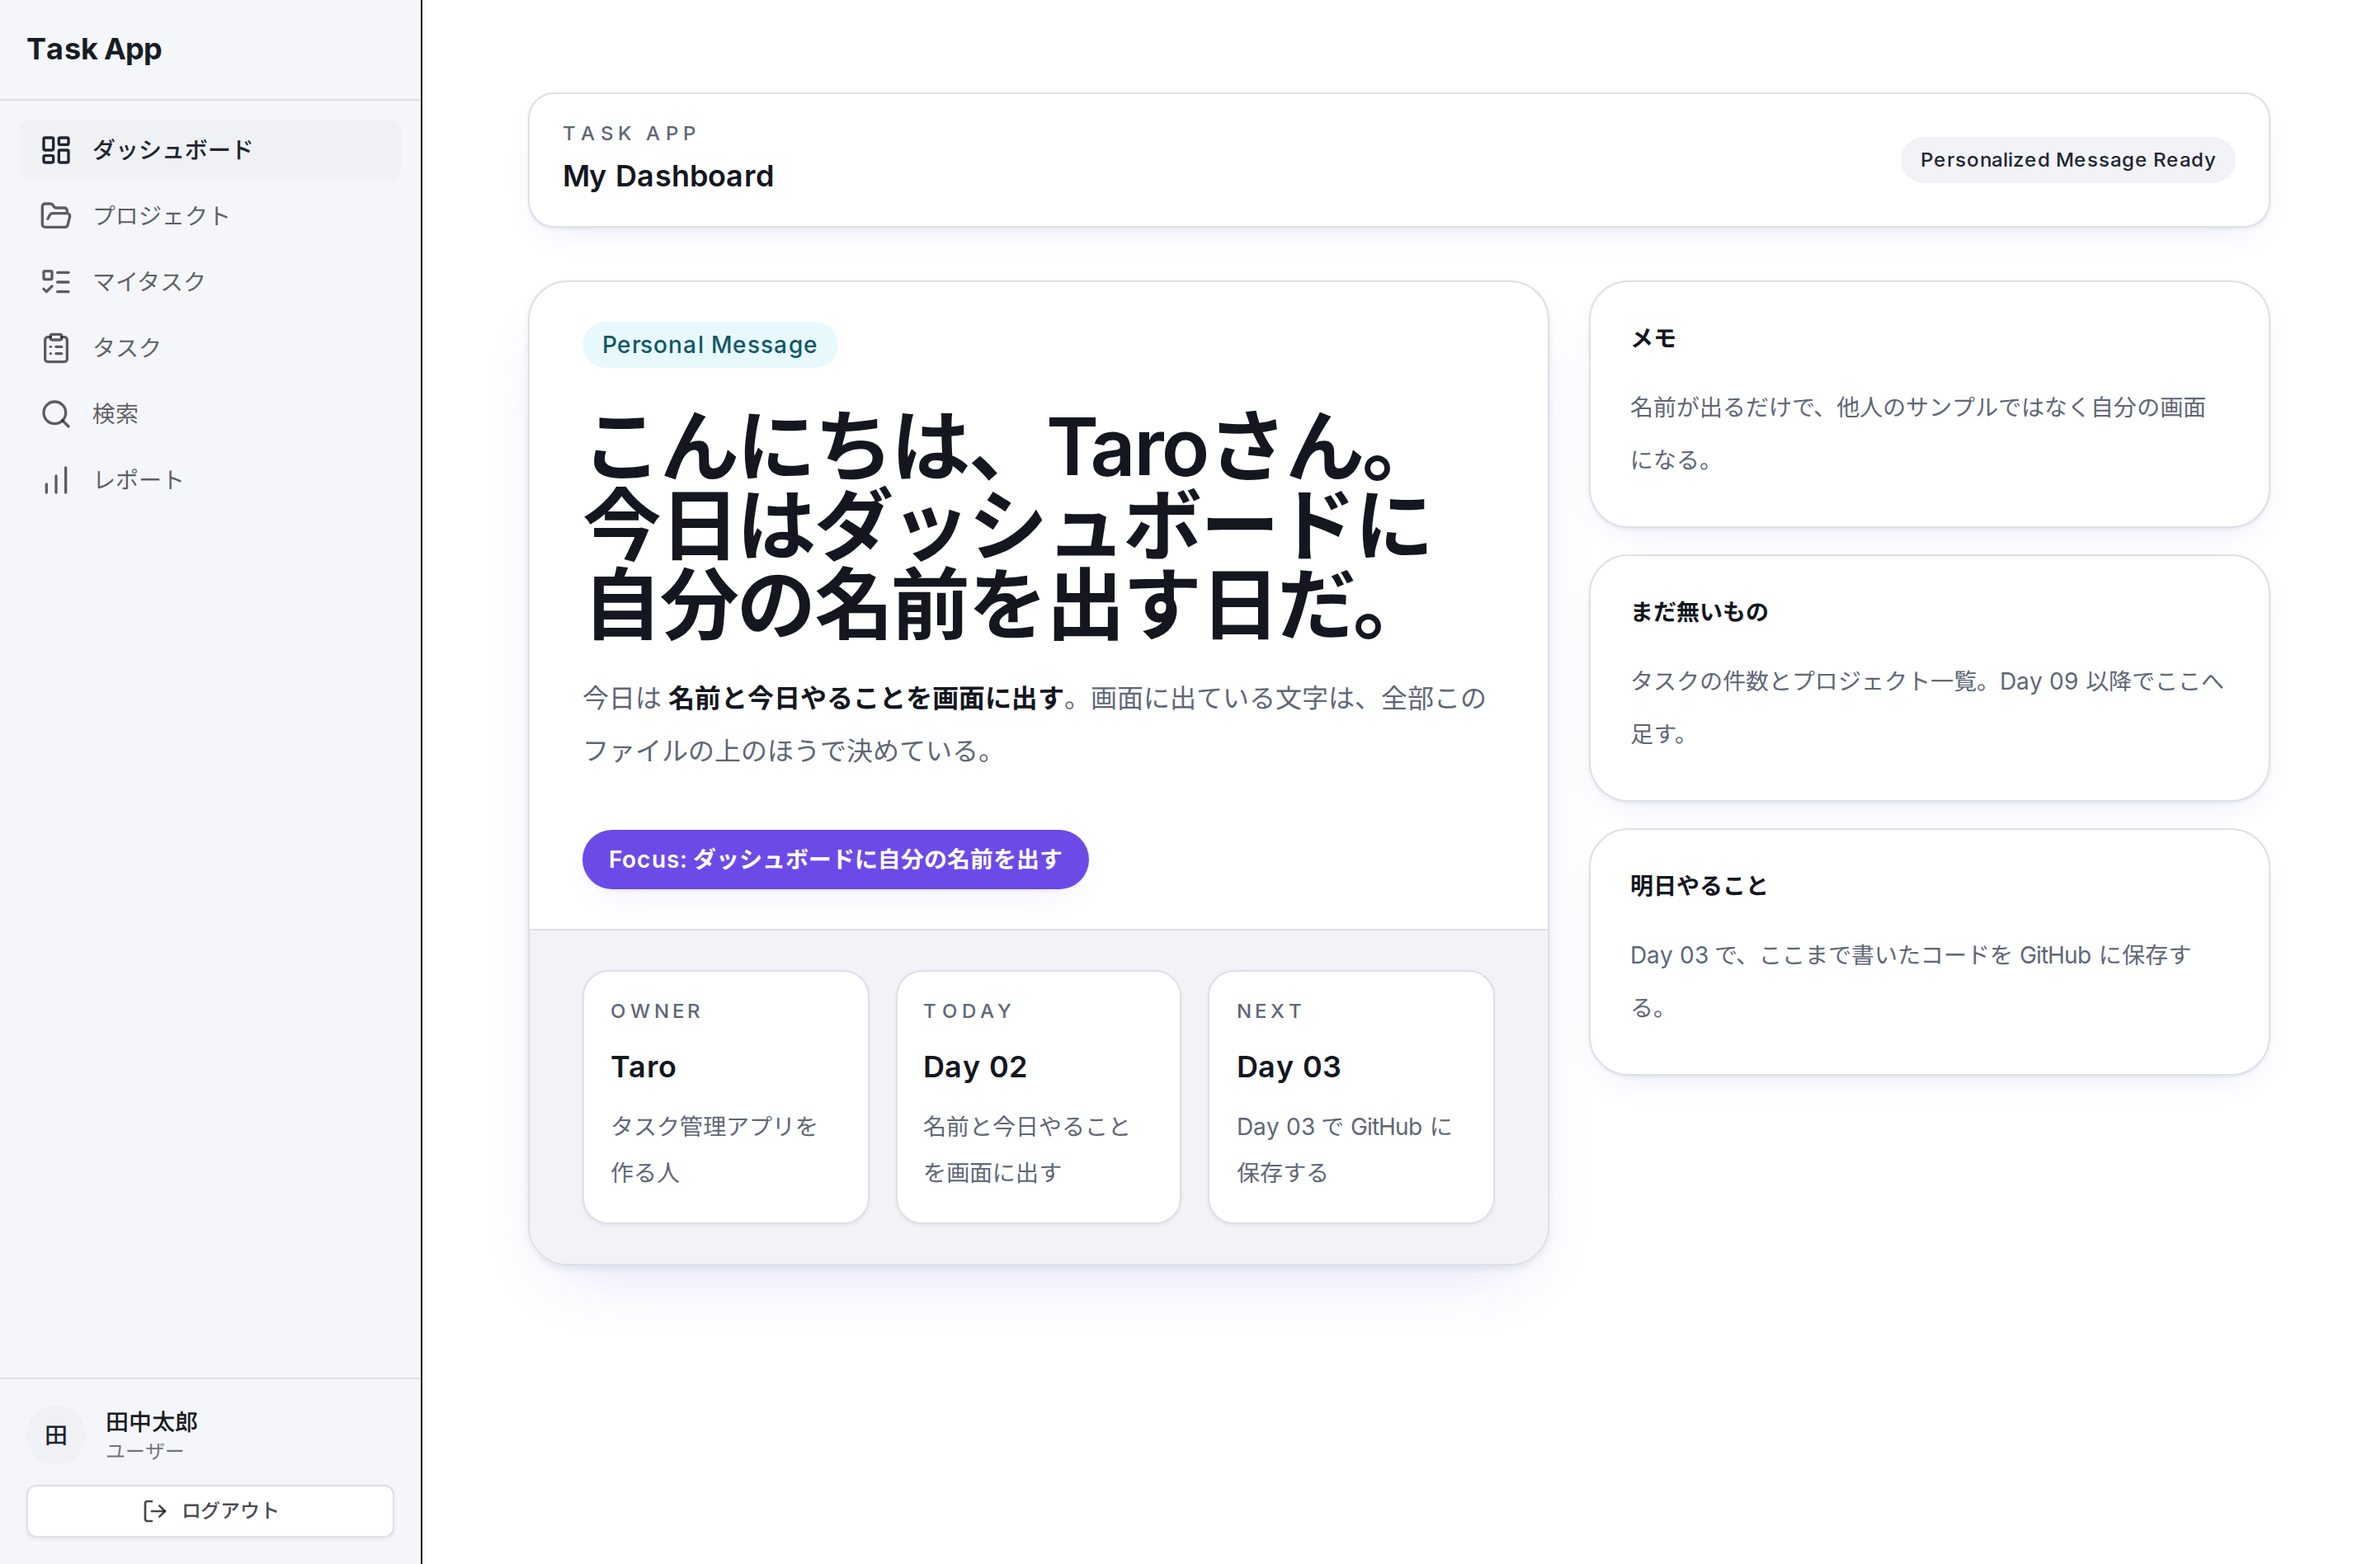
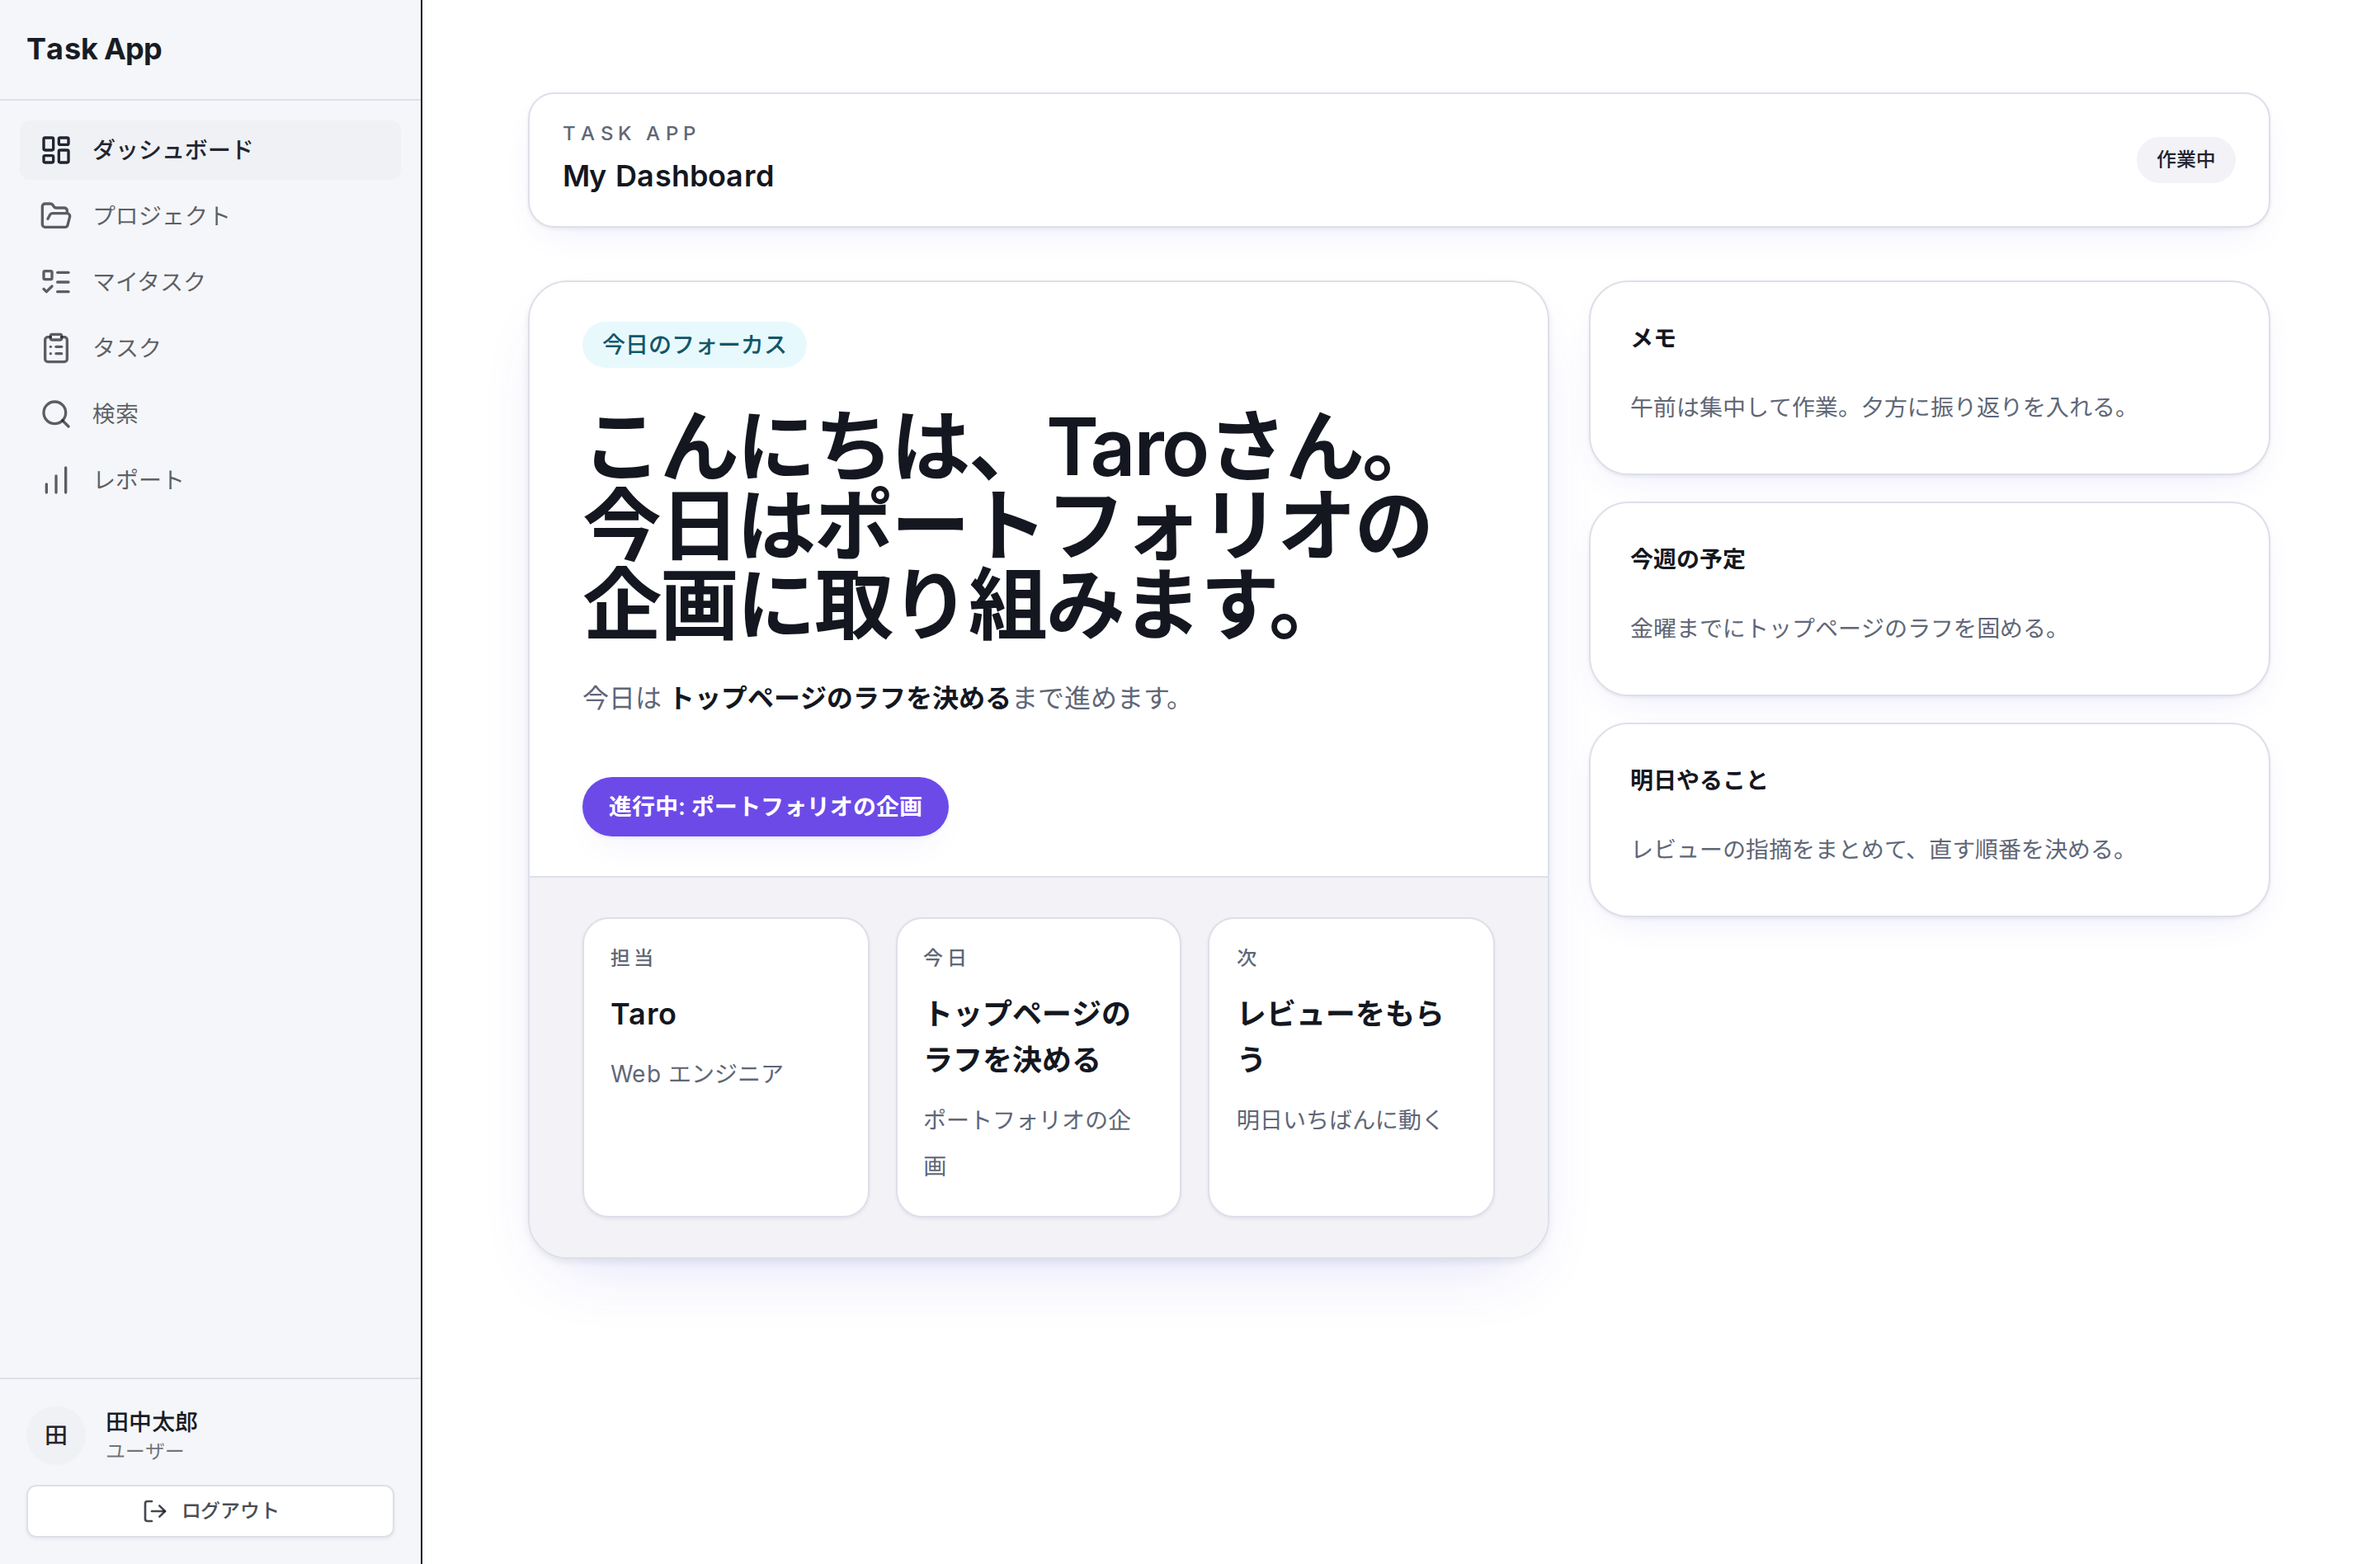
fix(material): rewrite Day 01-03 UI copy to match the finished app
The Day 01 hero and cards still said "Hello Task-App" and "はじめての画面",
which no later day ever changes, so the reader's screen kept a placeholder
title through Day 30 while the finished product says "ダッシュボード".
Day 02 carried the same wording through its prose and its greeting card.

- day01: hero, three cards, status labels and the dashboard body rewritten
  to the product's own wording
- day02: section titles, todayGoal literal and every prose reference updated
- day03: the one remaining prose reference updated
- day08/day30 screenshots reshot against the current tree

The three Day 01 and Day 02 screenshots are deliberately left out of this
commit: they still show the old wording, and the shooting database is down,
so they are reshot separately rather than committed known-stale.

diff --git a/material/30days-curriculum/day08_サイドバーを完成させよう.md b/material/30days-curriculum/day08_サイドバーを完成させよう.md
@@ -1124,10 +1124,10 @@ Day 02 のこのファイルには取り込みが1行もありませんでした
 // 完成版: 表示する値とあいさつの組み立て
 const dashboardOwner: DashboardOwner = {
   name: 'Taro',
-  role: 'タスク管理アプリを作る人',
-  todayFocus: 'ダッシュボードに自分の名前を出す',
-  todayGoal: '名前と今日やることを画面に出す',
-  nextAction: 'Day 03 で GitHub に保存する',
+  role: 'Web エンジニア',
+  todayFocus: 'ポートフォリオの企画',
+  todayGoal: 'トップページのラフを決める',
+  nextAction: 'レビューをもらう',
 };
 
 function getGreetingByHour(hour: number): string {
@@ -1153,7 +1153,7 @@ function getGreetingByHour(hour: number): string {
 function buildMainMessage(owner: DashboardOwner, hour: number): string {
   const greeting = getGreetingByHour(hour);
 
-  return `${greeting}、${owner.name}さん。今日は${owner.todayFocus}日だ。`;
+  return `${greeting}、${owner.name}さん。今日は${owner.todayFocus}に取り組みます。`;
 }
 
 export default function DashboardPage() {
@@ -1161,7 +1161,7 @@ export default function DashboardPage() {
   const mainMessage = buildMainMessage(dashboardOwner, currentHour);
   const focusCards: FocusCard[] = [
     {
-      label: 'Owner',
+      label: '担当',
       value: dashboardOwner.name,
       description: dashboardOwner.role,
     },
@@ -1175,14 +1175,14 @@ export default function DashboardPage() {
 {/* filepath: src/app/dashboard/page.tsx（同じファイルの続き） */}
 {/* 完成版: 残りのカードと外枠の開始 */}
     {
-      label: 'Today',
-      value: 'Day 02',
-      description: dashboardOwner.todayGoal,
+      label: '今日',
+      value: dashboardOwner.todayGoal,
+      description: dashboardOwner.todayFocus,
     },
     {
-      label: 'Next',
-      value: 'Day 03',
-      description: dashboardOwner.nextAction,
+      label: '次',
+      value: dashboardOwner.nextAction,
+      description: '明日いちばんに動く',
     },
   ];
 
@@ -1210,7 +1210,7 @@ export default function DashboardPage() {
             </div>
 
             <div className="inline-flex w-fit items-center rounded-full bg-secondary px-3 py-1.5 text-xs font-medium text-secondary-foreground">
-              Personalized Message Ready
+              作業中
             </div>
           </header>
 ```
@@ -1226,7 +1226,7 @@ export default function DashboardPage() {
             <article className="overflow-hidden rounded-3xl border border-border bg-card shadow-md">
               <div className="border-b border-border px-8 py-6">
                 <span className="inline-flex items-center rounded-full bg-accent px-3 py-1 text-sm font-medium text-accent-foreground">
-                  Personal Message
+                  今日のフォーカス
                 </span>
 
                 <h2 className="mt-6 max-w-4xl text-4xl font-semibold tracking-tight text-card-foreground sm:text-5xl">
@@ -1244,11 +1244,11 @@ export default function DashboardPage() {
                 <p className="mt-4 max-w-2xl text-base leading-8 text-muted-foreground">
                   今日は
                   <span className="font-semibold text-foreground"> {dashboardOwner.todayGoal}</span>
-                  。画面に出ている文字は、全部このファイルの上のほうで決めている。
+                  まで進めます。
                 </p>
 
                 <div className="mt-8 inline-flex items-center rounded-full bg-primary px-4 py-2 text-sm font-semibold text-primary-foreground shadow-sm">
-                  Focus: {dashboardOwner.todayFocus}
+                  進行中: {dashboardOwner.todayFocus}
                 </div>
               </div>
 ```
@@ -1294,16 +1294,16 @@ export default function DashboardPage() {
                   メモ
                 </p>
                 <p className="mt-4 text-sm leading-8 text-muted-foreground">
-                  名前が出るだけで、他人のサンプルではなく自分の画面になる。
+                  午前は集中して作業。夕方に振り返りを入れる。
                 </p>
               </article>
 
               <article className="rounded-3xl border border-border bg-card p-6 shadow-sm">
                 <p className="text-sm font-semibold text-card-foreground">
-                  まだ無いもの
+                  今週の予定
                 </p>
                 <p className="mt-4 text-sm leading-8 text-muted-foreground">
-                  タスクの件数とプロジェクト一覧。一覧は Day 09、件数の集計は Day 21 のレポート画面で作る。
+                  金曜までにトップページのラフを固める。
                 </p>
               </article>
 ```
@@ -1320,7 +1320,7 @@ export default function DashboardPage() {
                   明日やること
                 </p>
                 <p className="mt-4 text-sm leading-8 text-muted-foreground">
-                  Day 03 で、ここまで書いたコードを GitHub に保存する。
+                  レビューの指摘をまとめて、直す順番を決める。
                 </p>
               </article>
             </aside>

diff --git a/doc/review-handoff/day-snapshots-result.md b/doc/review-handoff/day-snapshots-result.md
@@ -3,10 +3,14 @@
 `scripts/curriculum-qa/build_day_snapshots.py` の出力。Day N を終えた読者の
 手元を組み直して、型検査とビルドが通るかを見た結果である。
 
-- 出どころ: `python3 scripts/curriculum-qa/build_day_snapshots.py --all --verify`（2026-08-30 12:41 UTC / 30 日ぶん）
+- 出どころ: `python3 scripts/curriculum-qa/build_day_snapshots.py --day 1 --verify`（2026-08-30 12:57 UTC / 1 日ぶん）
 - 型検査とビルド: 実行した
-- tsc・build とも OK: 29 / 30 日
+- tsc・build とも OK: 1 / 1 日
 - ツリーの置き場: `dist/day-snapshots/dayNN/`
+
+> ⚠ この結果は全 30 日の通し走行ではない（1 日ぶん / --verify あり）。
+> 通しの実測を上書きした可能性がある。証拠として出す前に
+> `--all --verify` を回し直して、この行が消えたことを確かめること。
 - tsc の NG は教材の欠陥とは限らない。教材がその日の `完成版` として
   変更箇所の抜粋だけを出す日があり、道具はそれを丸ごとの書き直しとして扱う。
   1件ずつ現物と突き合わせてから判断すること。下の切り分けの表を見ること。
@@ -14,40 +18,3 @@
 | Day | ツリー構築 | tsc | build | 最初のエラー3行 |
 | --- | --- | --- | --- | --- |
 | day01 | OK（76 ファイル） | OK | OK | - |
-| day02 | OK（76 ファイル） | OK | OK | - |
-| day03 | OK（76 ファイル） | OK | OK | - |
-| day04 | OK（76 ファイル） | OK | OK | - |
-| day05 | OK（78 ファイル） | OK | OK | - |
-| day06 | OK（79 ファイル） | OK | OK | - |
-| day07 | OK（86 ファイル） | OK | OK | - |
-| day08 | OK（89 ファイル） | OK | OK | - |
-| day09 | OK（91 ファイル） | OK | OK | - |
-| day10 | OK（92 ファイル） | OK | OK | - |
-| day11 | OK（92 ファイル） | NG | NG | src/component/project/project-detail-view.tsx(29,47): error TS2339: Property 'getById' does not exist on type 'GetInferenceHelpers<"output", { ctx: { headers: H<br>src/component/project/project-detail-view.tsx(144,44): error TS7006: Parameter 'member' implicitly has an 'any' type.<br>src/component/project/project-detail-view.tsx(167,31): error TS7053: Element implicitly has an 'any' type because expression of type 'any' can't be used to inde |
-| day12 | OK（93 ファイル） | OK | OK | - |
-| day13 | OK（95 ファイル） | OK | OK | - |
-| day14 | OK（97 ファイル） | OK | OK | - |
-| day15 | OK（97 ファイル） | OK | OK | - |
-| day16 | OK（99 ファイル） | OK | OK | - |
-| day17 | OK（100 ファイル） | OK | OK | - |
-| day18 | OK（102 ファイル） | OK | OK | - |
-| day19 | OK（102 ファイル） | OK | OK | - |
-| day20 | OK（104 ファイル） | OK | OK | - |
-| day21 | OK（106 ファイル） | OK | OK | - |
-| day22 | OK（106 ファイル） | OK | OK | - |
-| day23 | OK（107 ファイル） | OK | OK | - |
-| day24 | OK（109 ファイル） | OK | OK | - |
-| day25 | OK（113 ファイル） | OK | OK | - |
-| day26 | OK（115 ファイル） | OK | OK | - |
-| day27 | OK（116 ファイル） | OK | OK | - |
-| day28 | OK（116 ファイル） | OK | OK | - |
-| day29 | OK（120 ファイル） | OK | OK | - |
-| day30 | OK（120 ファイル） | OK | OK | - |
-
-## NG の日の切り分け
-
-「教材の欠陥」は現物を読んで確かめたものだけ。読んでいない日は「判定不能（未調査）」。
-
-| Day | 分類 | 根拠 |
-| --- | --- | --- |
-| day11 | 想定内（教材が本文で断っている） | day11 は 'getById' を書く前に配布物を取り込むため型エラーが5件出る。教材が本文で明示している |

diff --git a/material/30days-curriculum/day03_GitHubに保存する.md b/material/30days-curriculum/day03_GitHubに保存する.md
@@ -87,7 +87,7 @@ npm run dev
 ブラウザでは次の状態が見えていたら OK です。
 
 - Day 02 で作った自分用ダッシュボードが表示される
-- `Hello Task-App` ではなく、自分の名前やメッセージが主役として見える
+- 見出しだけではなく、自分の名前やメッセージが主役として見える
 - 画面が崩れていない
 
 ここで表示が崩れていたら、GitHub へ送る前に直しておきます。GitHub は壊れた状態でも保存できますが、今日の目的はいまの正常な状態を記録することだからです。
